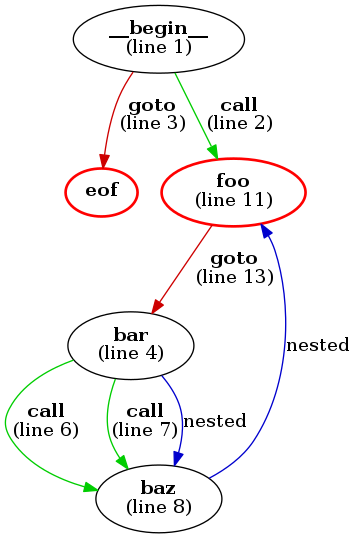
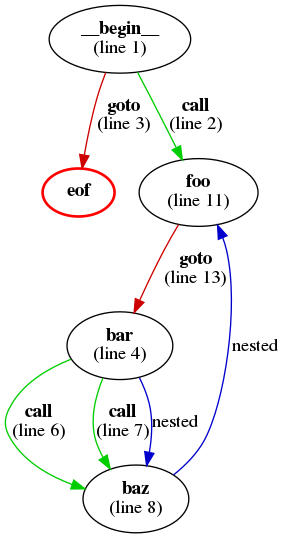
Fix exit node detection logic
Don't mark the last node as terminating if it contains a goto that does
not go towards eof.

Also add unit tests and update examples.

Fixes #8.

diff --git a/callgraph/callgraph.py b/callgraph/callgraph.py
@@ -178,8 +178,19 @@ class CallGraph:
         
         # Find exit nodes.
         last_node = max(call_graph.nodes.values(), key=lambda x: x.line_number)
-        print("{0} is the last node, therefore it's an exit node.".format(last_node.name), file=log_file)
+        print("{0} is the last node, marking it as exit node.".format(last_node.name), file=log_file)
         last_node.is_exit_node = True
+
+        # If the last node's last statement is a goto not going towards eof, then
+        # it's not an exit node.
+        for line in reversed(last_node.code):
+            if line.noop:
+                continue
+
+            for command, target in line.commands:
+                if command == "goto" and target and target != "eof":
+                    last_node.is_exit_node = False
+                    break
 
         # Prune away EOF if it is a virtual node (no line number) and there are no connections to it.
         eof = call_graph.GetOrCreateNode("eof")

diff --git a/tests/test_graphbuilding.py b/tests/test_graphbuilding.py
@@ -132,6 +132,30 @@ class BasicBuildTests(CallGraphTest):
         self.assertTrue(foo_node.is_exit_node)
         self.assertFalse(begin_node.is_exit_node)
 
+    def test_last_node_goto_not_terminating(self):
+        code = """
+        :foo
+        goto :eof
+        :bar
+        goto :foo
+        """.split("\n")
+        call_graph = callgraph.CallGraph.Build(code, self.devnull)
+        self.assertIn("bar", call_graph.nodes.keys())
+        bar_node = call_graph.nodes["bar"]
+        self.assertFalse(bar_node.is_exit_node)
+
+    def test_last_node_goto_eof_terminating(self):
+        code = """
+        :foo
+        goto :eof
+        """.split("\n")
+        call_graph = callgraph.CallGraph.Build(code, self.devnull)
+        self.assertIn("foo", call_graph.nodes.keys())
+        foo_node = call_graph.nodes["foo"]
+        self.assertTrue(foo_node.is_exit_node)
+
+
+
     def test_simple_nested(self):
         code = """
         something
